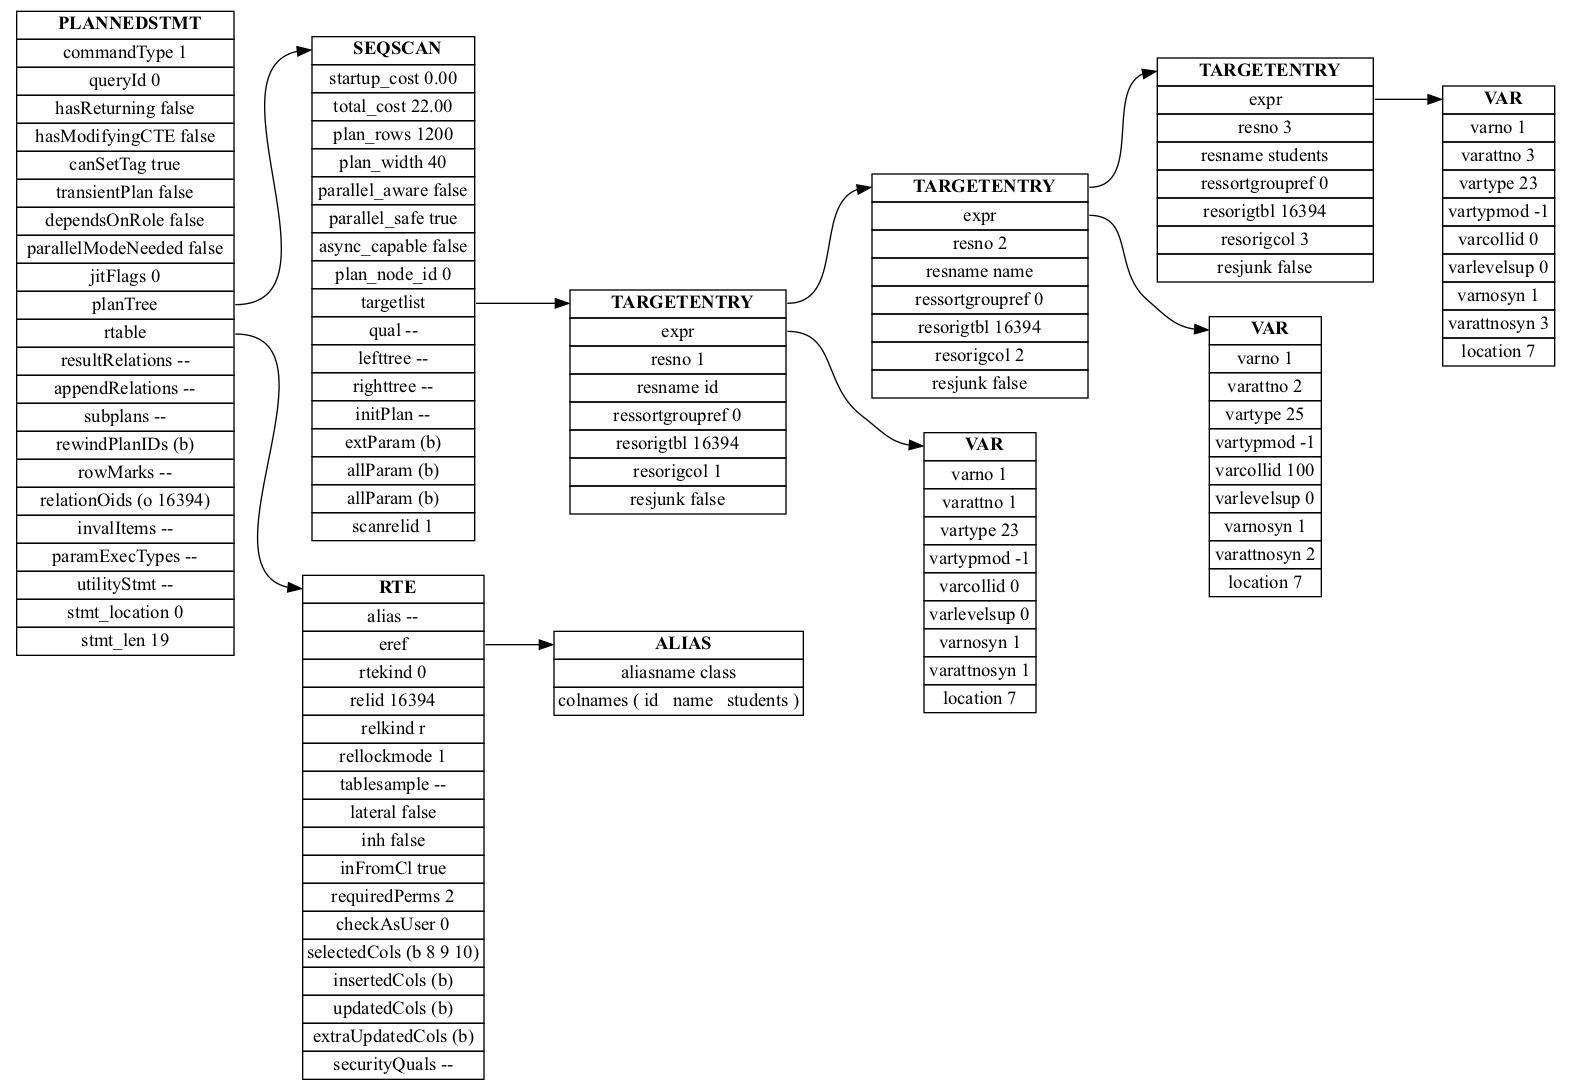
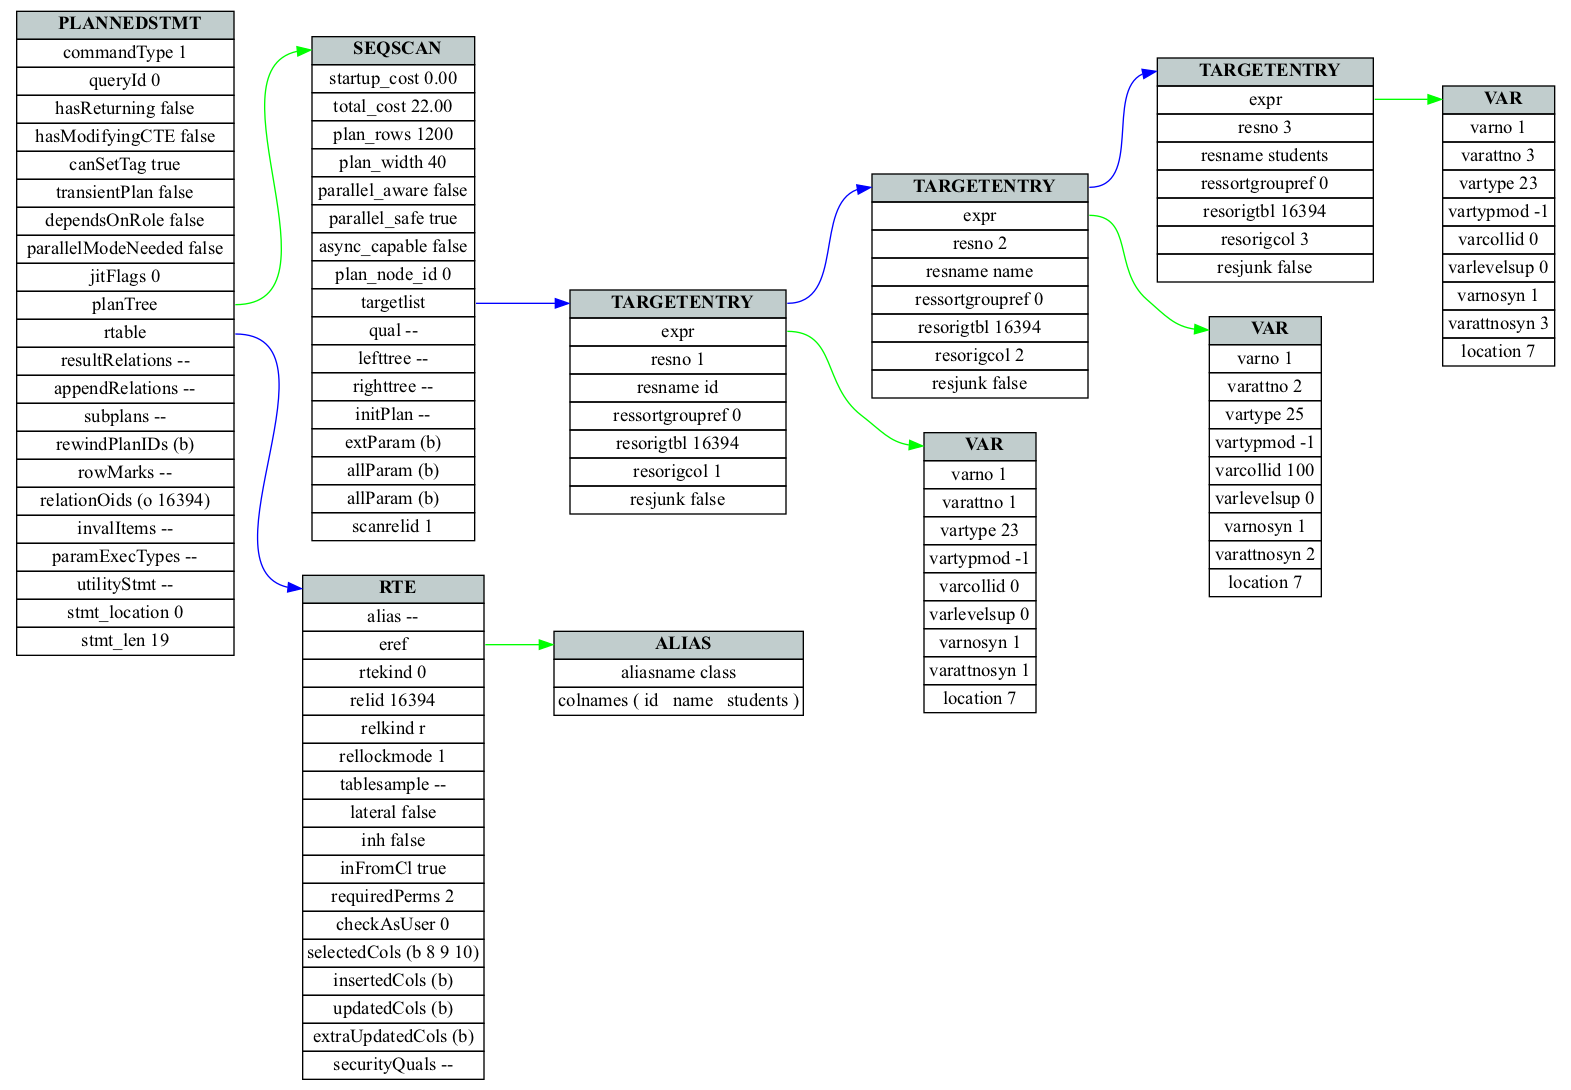
Render the output with color

diff --git a/node2dot.cc b/node2dot.cc
@@ -43,6 +43,7 @@ struct Node
 };
 
 static const char *progname;
+static bool enable_color = false;
 
 static void usage(void);
 static const char *get_progname(const char *argv0);
@@ -53,6 +54,12 @@ static void print_dot_footer(void);
 
 static bool parse_node(Node **root);
 static string get_name(void);
+static string get_node_header(size_t suffix, const string& name);
+static string get_node_body(size_t suffix, const string& name);
+static string get_node_footer(void);
+static string get_node_edge(size_t src_suffix, size_t src_index,
+							size_t dst_suffix, size_t dst_index,
+							bool list);
 
 int
 main(int argc, char **argv)
@@ -63,6 +70,7 @@ main(int argc, char **argv)
 	struct option longopts[] = {
 		{"help",    no_argument, 0, 'h' },
 		{"version", no_argument, 0, 'v' },
+		{"color",   no_argument, 0, 'c' },
 		{ NULL,     0,           0,  0  }
 	};
 
@@ -76,6 +84,9 @@ main(int argc, char **argv)
 		case 'v':
 			printf("%s %s\n", progname, VERSION);
 			exit(0);
+		case 'c':
+			enable_color = true;
+			break;
 		default:
 			fprintf(stderr, "Try \"%s --help\" for more information.\n", progname);
 			exit(1);
@@ -106,6 +117,7 @@ usage(void)
 	printf("\nOptions:\n");
 	printf("  -h, --help       show this page and exit\n");
 	printf("  -v, --version    show version and exit\n");
+	printf("  -c, --color      render the output with color\n");
 }
 
 static const char *
@@ -139,20 +151,10 @@ print_dot_body(const Node *root)
 	bfs.push(root);
 
 	while (!bfs.empty()) {
+		string      nodeinfo;
 		const Node *parent = bfs.front();
-		char dot_node[NODE_LEN] = { 0 };
-		int max = sizeof(dot_node) - 1;
-		int len = 0;
 
-		len += snprintf(dot_node + len, max - len,
-						"node_%lu [\n"
-						"  label=<<table border=\"0\" cellspacing=\"0\">\n"
-						"    <tr>"
-						"      <td port=\"f0\" border=\"1\">"
-						"        <B>%s</B>"
-						"      </td>"
-						"    </tr>\n",
-						parent->suffix, parent->name.c_str());
+		nodeinfo = get_node_header(parent->suffix, parent->name);
 
 		for (size_t i = 0; i < parent->elems.size(); i++) {
 			const Node *child = parent->elems[i];
@@ -161,15 +163,13 @@ print_dot_body(const Node *root)
 				bfs.push(child);
 			}
 
-			len += snprintf(dot_node + len, max - len,
-							"    <tr><td port=\"f%lu\" border=\"1\">%s</td></tr>\n",
-							child->index, child->name.c_str());
+			nodeinfo += get_node_body(child->index, child->name);
 		}
 
-		len += snprintf(dot_node + len, max - len, "  </table>>\n];");
+		nodeinfo += get_node_footer();
 
 		if (parent->type != TYPE_LIST && parent->type != TYPE_HIDE) {
-			cout <<dot_node <<endl;
+			cout <<nodeinfo <<endl;
 		}
 
 		for (size_t i = 0; i < parent->edges.size(); i++) {
@@ -209,12 +209,10 @@ parse_node(Node **root)
 				node->suffix = node_suffix++;
 
 				top = nodes_stack.empty() ? NULL : nodes_stack.top();
-				if (top == NULL) {
-					nodes_stack.push(node);
-					cerr <<"STACK: node push " <<node->name <<" at stack "
-						 <<nodes_stack.size() <<endl;
-				} else {
-					char edge[EDGE_LEN] = { 0 };
+				if (top != NULL) {
+					size_t src_suffix, src_index;
+					size_t dst_suffix, dst_index;
+					string edgeinfo;
 
 					if (prev_is_item) {
 						Node *tmp = top;
@@ -226,28 +224,36 @@ parse_node(Node **root)
 						top->suffix = tmp->suffix;
 					}
 
+					src_suffix = top->suffix;
+					src_index = top->index;
+					dst_suffix = node->suffix;
+					dst_index = 0;
+
+					/*
+					 * We should update the source information if it's
+					 * a list type and it's elems is not empty.
+					 */
 					if (top->type == TYPE_LIST) {
-						if (top->elems.empty()) {
-							snprintf(edge, sizeof(edge), "node_%lu:f%lu -> node_%lu:f0",
-									 top->suffix, top->index, node->suffix);
-						} else {
+						if (!top->elems.empty()) {
 							Node *prev = top->elems.back();
-							snprintf(edge, sizeof(edge), "node_%lu:f0 -> node_%lu:f0",
-									 prev->suffix, node->suffix);
+
+							src_suffix = prev->suffix;
+							src_index = 0;
 						}
-					} else {
-						snprintf(edge, sizeof(edge), "node_%lu:f%lu -> node_%lu:f0",
-								 top->suffix, top->index, node->suffix);
 					}
 
-					top->edges.push_back(edge);
+					edgeinfo = get_node_edge(src_suffix, src_index,
+											 dst_suffix, dst_index,
+											 top->type == TYPE_LIST);
+
+					top->edges.push_back(edgeinfo);
 					top->elems.push_back(node);
 					node->index = top->elems.size();
-
-					nodes_stack.push(node);
-					cerr <<"STACK: node push " <<node->name <<" at stack "
-						 <<nodes_stack.size() <<endl;
 				}
+
+				nodes_stack.push(node);
+				cerr <<"STACK: node push " <<node->name <<" at stack "
+					 <<nodes_stack.size() <<endl;
 
 				prev_is_item = false;
 				break;
@@ -386,4 +392,68 @@ get_name(void)
 	}
 
 	return name;
+}
+
+static string
+get_node_header(size_t suffix, const string& name)
+{
+	char color[64] = { 0 };
+	char dot_node[NODE_LEN] = { 0 };
+
+	if (enable_color) {
+		snprintf(color, sizeof(color), "bgcolor=\"azure3\"");
+	}
+
+	snprintf(dot_node, sizeof(dot_node),
+			 "node_%lu [\n"
+			 "  label=<<table border=\"0\" cellspacing=\"0\">\n"
+			 "    <tr>\n"
+			 "      <td port=\"f0\" border=\"1\" %s>\n"
+			 "        <B>%s</B>\n"
+			 "      </td>\n"
+			 "    </tr>\n",
+			 suffix, color,name.c_str());
+
+	return string(dot_node);
+}
+
+static string
+get_node_body(size_t suffix, const string& name)
+{
+	char node[NODE_LEN] = { 0 };
+
+	snprintf(node, sizeof(node),
+			 "    <tr><td port=\"f%lu\" border=\"1\">%s</td></tr>\n",
+			 suffix, name.c_str());
+
+	return string(node);
+}
+
+static string
+get_node_footer(void)
+{
+	return string("  </table>>\n];");
+}
+
+static string
+get_node_edge(size_t src_suffix, size_t src_index,
+			  size_t dst_suffix, size_t dst_index,
+			  bool list)
+{
+	char color[64] = { 0 };
+	char edge[EDGE_LEN] = { 0 };
+
+	if (enable_color) {
+		if (list) {
+			snprintf(color, sizeof(color), "[color=blue]");
+		} else {
+			snprintf(color, sizeof(color), "[color=green]");
+		}
+	}
+
+	snprintf(edge, sizeof(edge),
+			 "node_%lu:f%lu -> node_%lu:f%lu %s;",
+			 src_suffix, src_index, dst_suffix, dst_index, color);
+
+	return string(edge);
 }
